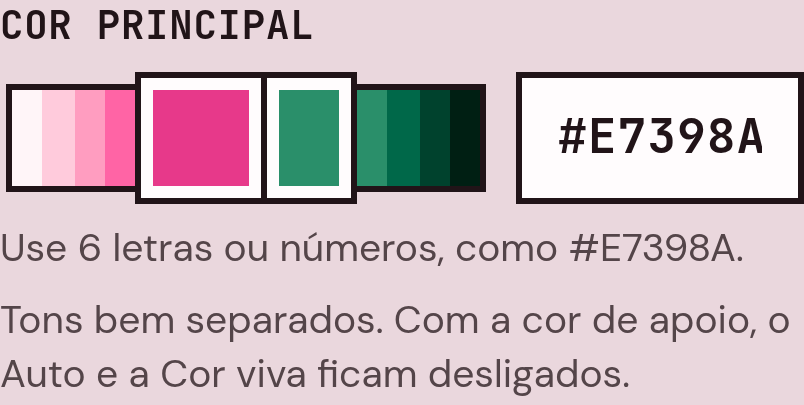
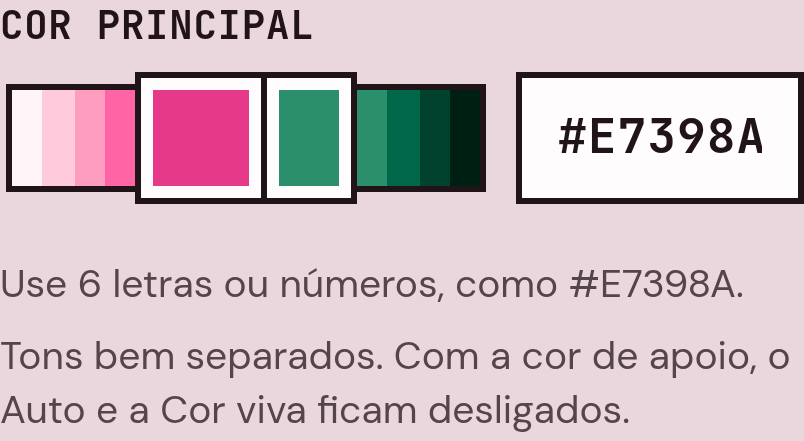
fix: volta a marcação amarela dos tons parecidos sob a mini paleta

diff --git a/src/styles/tools/color-decomposer.css b/src/styles/tools/color-decomposer.css
@@ -184,13 +184,23 @@
 .cd .tune__why { display: grid; gap: .25rem; }
 .cd .tune__status:focus { outline: none; }
 .cd .tune__status.is-warn { margin-top: .25rem; padding: .5rem .75rem; border: var(--bw) solid var(--warn-edge); border-radius: var(--r-control); background: var(--warn-bg); color: var(--fg); }
-/* Mini paleta (Figma hexrow-new): 4 tons, o seletor e 4 tons; as faixas dividem o que sobra (flex: 1). A amostra da cor de apoio entra ao lado do seletor e as faixas encolhem. */
-.cd .mini { display: flex; align-items: center; min-width: 0; padding-inline: var(--bw); }
-.cd .mini .color { flex: none; position: relative; z-index: 1; }
-.cd .mini__strip { display: flex; flex: 1 1 0; min-width: 0; height: 2.25rem; border: var(--bw) solid var(--fg); }
-.cd .mini__strip--start { border-right: 0; }
-.cd .mini__strip--end { border-left: 0; }
+/* Mini paleta (Figma hexrow-new): 4 tons, o seletor e 4 tons; as faixas dividem o que sobra (minmax(0, 1fr)). A amostra da cor de apoio entra ao lado do seletor e as faixas encolhem.
+   A linha de baixo marca os tons quase iguais ao vizinho (amarelo), alinhada às faixas. */
+.cd .mini { display: grid; grid-template-columns: minmax(0, 1fr) auto auto minmax(0, 1fr); align-items: center; min-width: 0; padding-inline: var(--bw); }
+.cd .mini .color { grid-column: 2; position: relative; z-index: 1; }
+.cd .mini__support { grid-column: 3; }
+.cd .mini__strip { display: flex; min-width: 0; height: 2.25rem; border: var(--bw) solid var(--fg); }
+.cd .mini__strip--start { grid-column: 1; grid-row: 1; border-right: 0; }
+.cd .mini__strip--end { grid-column: 4; grid-row: 1; border-left: 0; }
 .cd .mini__strip i { flex: 1 1 0; min-width: 0; background: var(--c); forced-color-adjust: none; }
+.cd .mini__flags { display: flex; grid-row: 2; margin-top: 4px; }
+.cd .mini__flags--start { grid-column: 1; padding-left: var(--bw); }
+.cd .mini__flags--mid { grid-column: 2; }
+.cd .mini__flags--end { grid-column: 4; padding-right: var(--bw); }
+.cd .mini__flags b { flex: 1 1 0; min-width: 0; height: .5rem; background: transparent; }
+.cd .mini__flags b.is-flag { background: var(--warn-bg); border: solid var(--warn-edge); border-width: 2px 0; }
+.cd .mini__flags b.is-start { border-left-width: 2px; }
+.cd .mini__flags b.is-end { border-right-width: 2px; }
 .cd .mini__support { flex: none; width: 2rem; height: var(--control); margin-left: calc(var(--bw) * -1); padding: .25rem; border: var(--bw) solid var(--fg); background: linear-gradient(var(--c), var(--c)) content-box, var(--bg); forced-color-adjust: none; }
 
 

diff --git a/src/components/tools/color-decomposer/main.js b/src/components/tools/color-decomposer/main.js
@@ -625,8 +625,25 @@ function renderMini() {
   const others = levels.filter((l) => l !== brandLevel());
   const pick = others.length <= 8 ? others : Array.from({ length: 8 }, (_, i) => others[Math.round((i * (others.length - 1)) / 7)]);
   const tones = (list) => list.map((l) => { const sw = document.createElement('i'); sw.style.setProperty('--c', surface[l]); return sw; });
-  $('mini-start').replaceChildren(...tones(pick.slice(0, Math.ceil(pick.length / 2))));
-  $('mini-end').replaceChildren(...tones(pick.slice(Math.ceil(pick.length / 2))));
+  const half = Math.ceil(pick.length / 2);
+  const left = pick.slice(0, half), right = pick.slice(half);
+  $('mini-start').replaceChildren(...tones(left));
+  $('mini-end').replaceChildren(...tones(right));
+  // marcação dos tons quase iguais ao vizinho, sob a faixa; a ordem é a que se vê (faixa, seletor, faixa)
+  const seen = [...left, brandLevel(), ...right];
+  const flagged = new Set(sep.tones);
+  const flagFor = (l, i) => {
+    const f = document.createElement('b');
+    if (flagged.has(l)) {
+      f.className = 'is-flag';
+      if (!flagged.has(seen[i - 1])) f.classList.add('is-start');
+      if (!flagged.has(seen[i + 1])) f.classList.add('is-end');
+    }
+    return f;
+  };
+  $('mini-flags-start').replaceChildren(...left.map((l, i) => flagFor(l, i)));
+  $('mini-flags-mid').replaceChildren(flagFor(brandLevel(), left.length));
+  $('mini-flags-end').replaceChildren(...right.map((l, i) => flagFor(l, left.length + 1 + i)));
   $('mini-support').hidden = !hasSupport();
   if (hasSupport()) $('mini-support').style.setProperty('--c', state.support);
   const shown = (lvl) => (state.mode === 'dark' ? levels[0] + levels.at(-1) - lvl : lvl);

diff --git a/docs/design-notes.md b/docs/design-notes.md
@@ -396,7 +396,7 @@ Fase 1 da integração: a interface de `lucas-per/color-decomposer@v0.2.0` (`app
 
 **Mini paleta (2026-10-17), Figma `hexrow-new` (608:231):** quatro tons mais claros, o seletor de cor (44px de toque, amostra de 32px) e quatro mais escuros, tudo num bloco que ocupa a largura que sobra ao lado do campo de HEX (164px em 268px de linha). As faixas usam `flex: 1`; os 13,75 e 14,25px do Figma são resultado de layout. Divergências:
 - Campo de HEX com 96px (6rem), não 98px, para seguir os múltiplos de 4; o bloco continua com 164px.
-- Os 8 tons vêm dos níveis da paleta menos o da marca (que é o seletor); no Aplica, 8 espaçados por igual. A marcação dos tons parecidos sob a faixa saiu; o aviso continua no texto sob o campo e no painel dos tons.
+- Os 8 tons vêm dos níveis da paleta menos o da marca (que é o seletor); no Aplica, 8 espaçados por igual. A marcação amarela dos tons parecidos continua sob a faixa (decisão do Lucas, 2026-10-17), agora sob os 8 tons mostrados e sob o seletor, na ordem em que se vê; o frame novo não a desenha.
 - Cor de apoio (o Figma não desenha): uma amostra decorativa (`aria-hidden`) de 32x44px, no mesmo desenho do seletor (borda de 2px, amostra interna de 20x32px), logo à direita dele; as faixas encolhem para abrir espaço.
 - O seletor da cor de apoio e o da principal passam a ter a amostra de 32px (antes 34px); sai a exceção `padding: 3px` do `KNOWN_EXCEPTIONS`.
 - 
